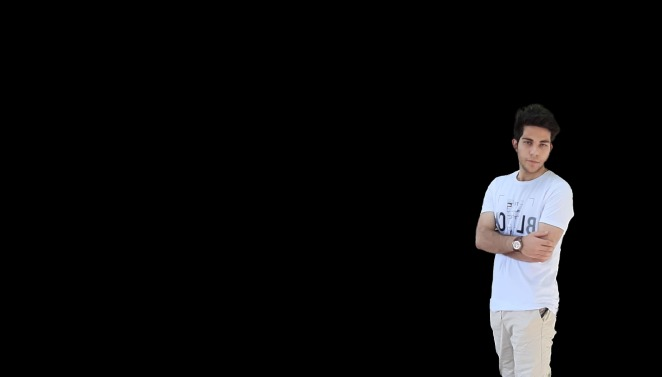
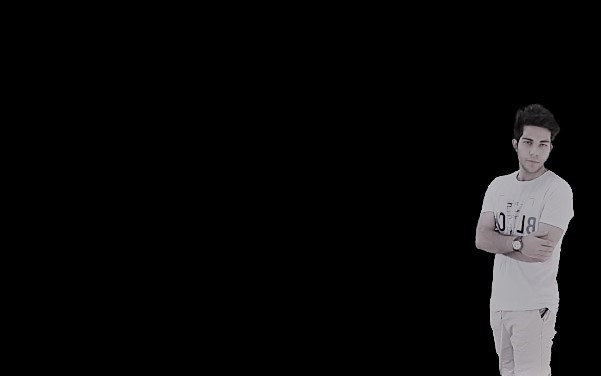
changing bg photo to black and white

Changed region(s): [[0.7188, 0.2633, 0.9584, 1.0]]

diff --git a/assets/css/style.css b/assets/css/style.css
@@ -28,11 +28,18 @@ body::before {
   z-index: -1;
 }
 
+@media only screen and (max-width: 1100px) {
+  body::before {
+    background-color: black;
+  }
+}
+
 @media (min-width: 1024px) {
   body::before {
     background-attachment: fixed;
   }
 }
+
 
 a {
   color: #18d26e;
